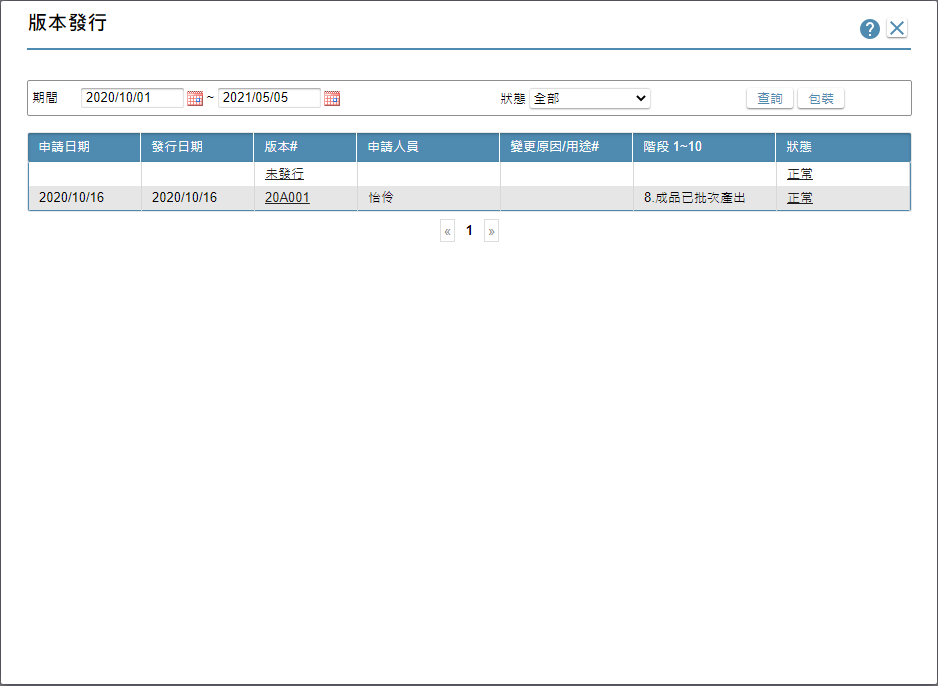
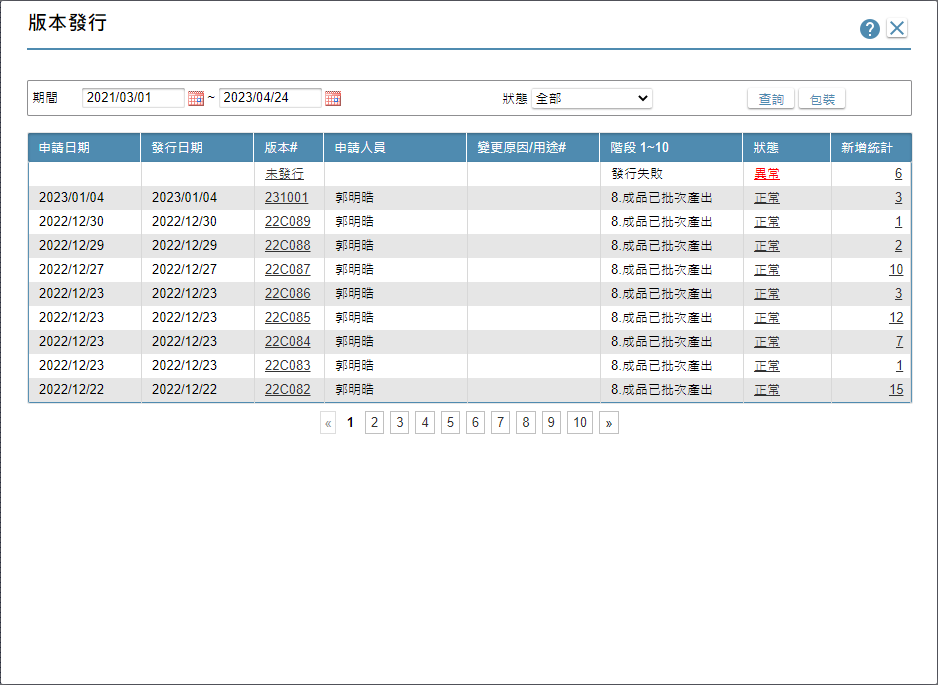
#9229 IDE_版本發行統計資訊規格調整

diff --git a/8.10.2/IDE/Specification/Publish/AddFormStatistics.md b/8.10.2/IDE/Specification/Publish/AddFormStatistics.md
@@ -1,0 +1,69 @@
+## <div id="layout">版面相關</div>
+* 版面
+    * ![pic][image_AddFormStatistics]
+* [版面資訊通則][link_ruleother1]
+		
+## <div id="form-action">動作說明</div>
+* 由[版本發行][link_Publish]的`新增統計`, 點擊超連結進入本單, 顯示本版本已打樣或已發行的表單/報表明細及統計數量
+
+## <div id="object-desc">欄位說明</div>
+
+* <p id="fieldbreak1" style="color:blue;font-weight:bold">基本</p>
+
+    * ![pic][image_AddFormStatistics_block1]
+    * `(1)新增表單數`
+        * 用途說明
+        * 規格說明
+            * 顯示本版本新增的表單總數
+    * `(2)新增報表數`
+        * 用途說明
+        * 規格說明
+            * 顯示本版本新增的報表總數
+    * `(3)新增總數`
+        * 用途說明
+        * 規格說明
+            * 顯示本版本新增表單/報表總數
+    * `(4)表報類別`
+        * 用途說明
+        * 規格說明
+            * 顯示表單/報表
+    * `(5)成品料號`
+        * 用途說明
+        * 規格說明
+            * 顯示表單/報表成品料號
+    * `(6)表報名稱`
+        * 用途說明
+        * 規格說明
+            * 顯示表單/報表名稱
+    * `(7)新增人員`
+        * 用途說明
+        * 規格說明
+            * 顯示本表報新增建立人員
+    * `(8)新增日期`
+        * 用途說明
+        * 規格說明
+            * 顯示本表報新增建立日期時間
+    * `(9)打樣人員`
+        * 用途說明
+        * 規格說明
+            * 顯示本表報在本版本中最後的打樣人員
+    * `(10)打樣日期`
+        * 用途說明
+        * 規格說明
+            * 顯示本表報在本版本中最後打樣日期時間
+    * `(11)發行人員`
+        * 用途說明
+        * 規格說明
+            * 顯示本表報在本版本中最後的發行人員
+    * `(12)發行日期`
+        * 用途說明
+        * 規格說明
+            * 顯示本表報在本版本中最後發行日期時間
+
+<!-- 圖片 -->
+[image_AddFormStatistics]:attachment/AddFormStatistics.png
+[image_AddFormStatistics_block1]:attachment/AddFormStatistics_block1.png
+
+<!-- 超連結 -->
+[link_ruleother1]:../RulesOther/README#ruleother1 "共用通則_其它/版面資訊通則"
+[link_Publish]:README "版本發行"

diff --git a/8.10.2/IDE/Specification/Publish/README.md b/8.10.2/IDE/Specification/Publish/README.md
@@ -1,9 +1,22 @@
 ## <div id="layout">版面相關</div>
 * 版面 
-  * ![publish]
+  * ![image_publish]
   
+## <div id="object-desc">欄位說明</div>
 
+* <p id="fieldbreak1" style="color:blue;font-weight:bold">基本</p>
 
+    * ![pic][image_publish_block1]
+    * `(1)新增統計`
+        * 用途說明
+          * 顯示本版新增的表單/報表數量
+        * 規格說明
+          * 本版新增的表單/報表, 有打樣過、發行過, 不論是否已刪除, 皆列入加總計算(產生xml即列入)
+          * 超連結開啟[版本發行新增單據統計][link_AddFormStatistics]
 
 <!--圖片-->
-[publish]:attachment/Publish.png "版本發行"
+[image_publish]:attachment/Publish.png "版本發行"
+[image_publish_block1]:attachment/Publish_block1.png "版本發行_基本"
+
+<!-- 超連結 -->
+[link_AddFormStatistics]:AddFormStatistics "版本發行新增單據統計"

diff --git a/8.10.2/UPDATE/ITEM_18/IDE/README.md b/8.10.2/UPDATE/ITEM_18/IDE/README.md
@@ -1,0 +1,17 @@
+### <div id="user">規劃人員</div>
+* how
+
+### <div id="updatedate">規劃日期</div>
+* 2023/04/24
+
+### <div id="trac">TRAC</div>
+* #9229
+
+### <div id="requirement">需求展開</div>
+* 文件位置
+    * [版本發行][link_Publish]
+    * [版本發行新增單據統計][link_AddFormStatistics]
+
+<!-- 超連結 -->
+[link_Publish]:{3}/IDE/Specification/Publish/README
+[link_AddFormStatistics]:{3}/IDE/Specification/Publish/AddFormStatistics

diff --git a/8.10.2/IDE/Specification/AddDataAreaForm/README.md b/8.10.2/IDE/Specification/AddDataAreaForm/README.md
@@ -4,7 +4,7 @@
 * [版面資訊通則][link_ruleother1]
 		
 ## <div id="form-action">動作說明</div>
-* 依規格定義-主畫面 結構清單駐留節點 資料來源, 執行按鍵.新增, 進入本單
+* 由
 * 依規格定義-主畫面 結構清單駐留節點 資料區, 執行滑鼠右鍵.新增, 進入本單 
 
 ## <div id="object-desc">欄位說明</div>

diff --git a/8.10.2/UPDATE/ITEM_18/IDE/history.md b/8.10.2/UPDATE/ITEM_18/IDE/history.md
@@ -1,0 +1,17 @@
+變更記錄
+===
+| 版本 |
+| :---: |
+| [8.10.2](#v8_10_2) |
+
+***
+
+### <a id='v8_10_2'></a>8.10.2
+* Added how 2023-04-24: IDE_8.10.2版本發行統計資訊規格調整 ([Trac#9229])
+
+ 
+<!-- 圖片 -->
+
+
+<!-- 超連結 -->
+[Trac#9229]:http://trac.arcare.com.tw/trac/neco/ticket/9229 "#9229"

diff --git a/8.10.2/IDE/Specification/Publish/_sidebar.md b/8.10.2/IDE/Specification/Publish/_sidebar.md
@@ -1,6 +1,8 @@
 # 版本發行
 * [上一頁](../README.md)
 * [版面相關](README#layout)
+* [欄位說明](README#object-desc)
 * 其它
     * [材料異動記錄](ChangeLogInfo)
+    * [版本發行新增單據統計](AddFormStatistics)
 * [history](history)

diff --git a/8.10.2/UPDATE/ITEM_18/IDE/_sidebar.md b/8.10.2/UPDATE/ITEM_18/IDE/_sidebar.md
@@ -1,0 +1,7 @@
+# 版本發行新增單據統計
+* [上一頁](../../README.md)
+* [規劃人員](README.md#user)
+* [規劃日期](README.md#updatedate)
+* [TRAC](README.md#trac)
+* [需求展開](README.md#requirement)
+* [history](history.md)

diff --git a/8.10.2/UPDATE/_sidebar.md b/8.10.2/UPDATE/_sidebar.md
@@ -42,3 +42,5 @@
   * [授權中心網站](ITEM_17/LICENSE/README.md)
   * [RTE](ITEM_17/RTE/README.md)
   * [MAE](ITEM_17/MAE/README.md)
+* 18.版本發行新增單據統計
+  * [IDE](ITEM_18/IDE/README.md)

diff --git a/8.10.2/UPDATE/ITEM_18/_sidebar.md b/8.10.2/UPDATE/ITEM_18/_sidebar.md
@@ -1,0 +1,4 @@
+# 版本發行新增單據統計
+
+* [上一頁](../README.md)
+* [IDE](IDE/README.md)

diff --git a/8.10.2/UPDATE/ITEM_18/README.md b/8.10.2/UPDATE/ITEM_18/README.md
@@ -1,0 +1,1 @@
+# 版本發行新增單據統計
